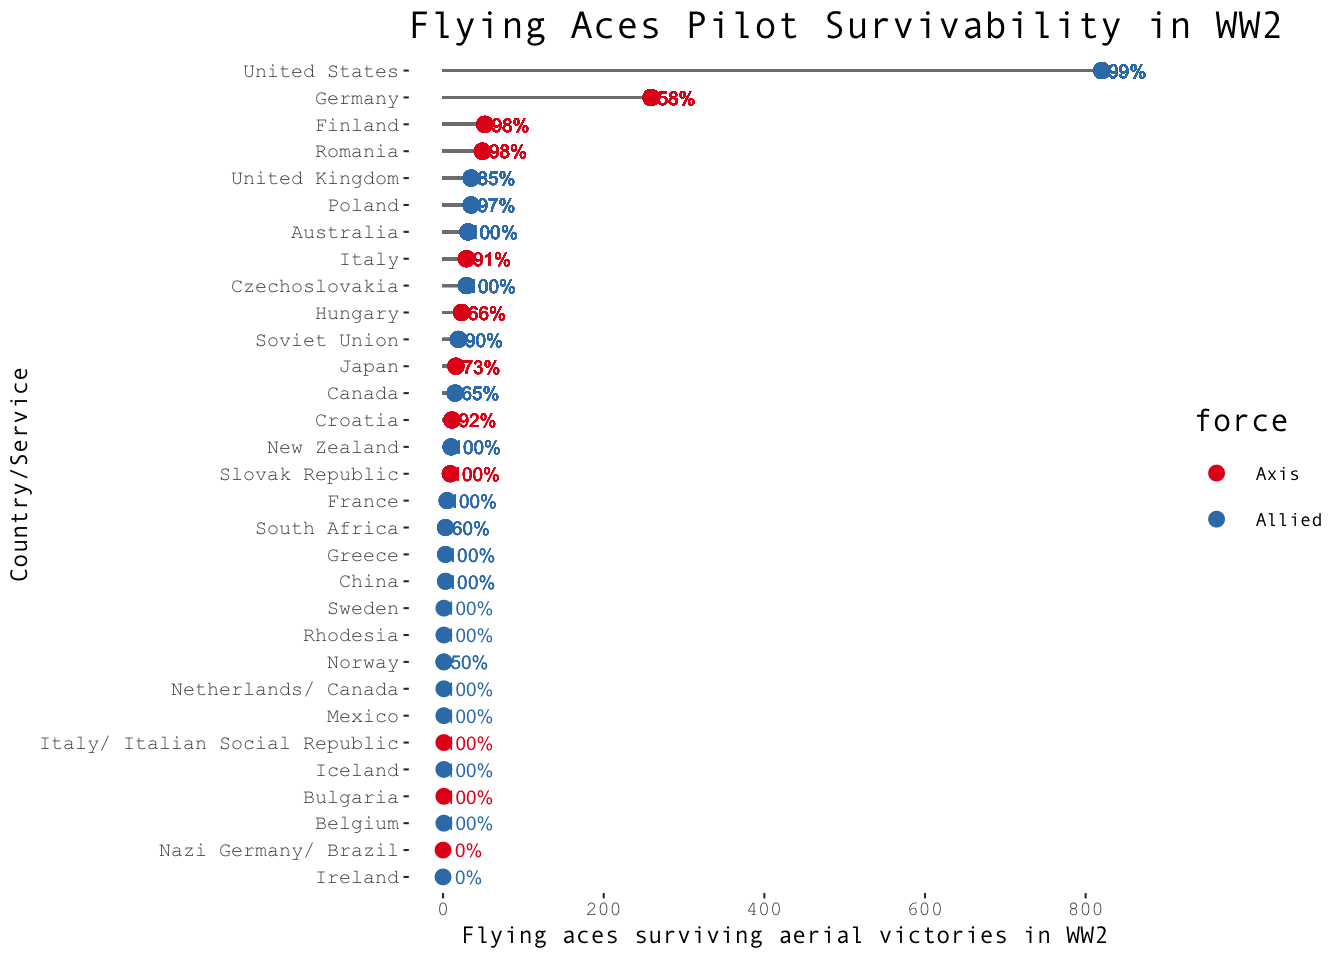
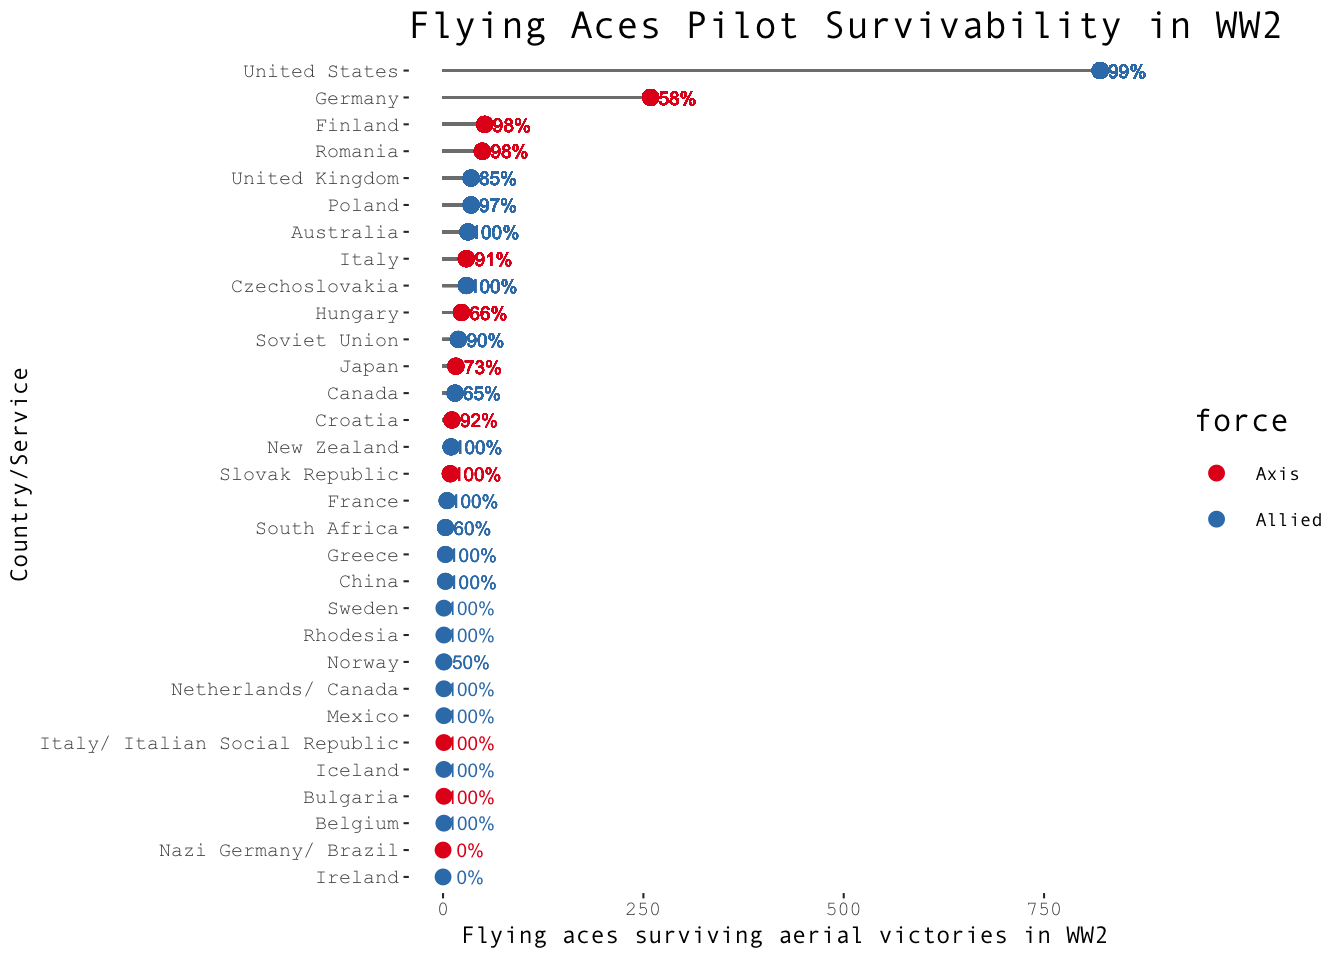
adjust percent labels

Changed region(s): [[0.3438, 0.125, 0.4062, 0.9375], [0.7812, 0.9375, 0.8125, 0.9688], [0.4375, 0.9375, 0.4688, 0.9688]]

diff --git a/content/post/2019-05-13-world-war-ii-flying-aces-casualties-by-country-part-3.html b/content/post/2019-05-13-world-war-ii-flying-aces-casualties-by-country-part-3.html
@@ -204,7 +204,7 @@ WW2CountryXCasualtiesPerc %&gt;% utils::head(10)
     # adjust size
     size = 2.5,
     # nudge
-    nudge_x = 32) +
+    nudge_x = 34) +
 
   # this is for the legend on the graph
   ggplot2::scale_colour_brewer(

diff --git a/public/post/world-war-ii-flying-aces-casualties-by-country-part-3/index.html b/public/post/world-war-ii-flying-aces-casualties-by-country-part-3/index.html
@@ -438,7 +438,7 @@ WW2CountryXCasualtiesPerc %&gt;% utils::head(10)
     # adjust size
     size = 2.5,
     # nudge
-    nudge_x = 32) +
+    nudge_x = 34) +
 
   # this is for the legend on the graph
   ggplot2::scale_colour_brewer(
